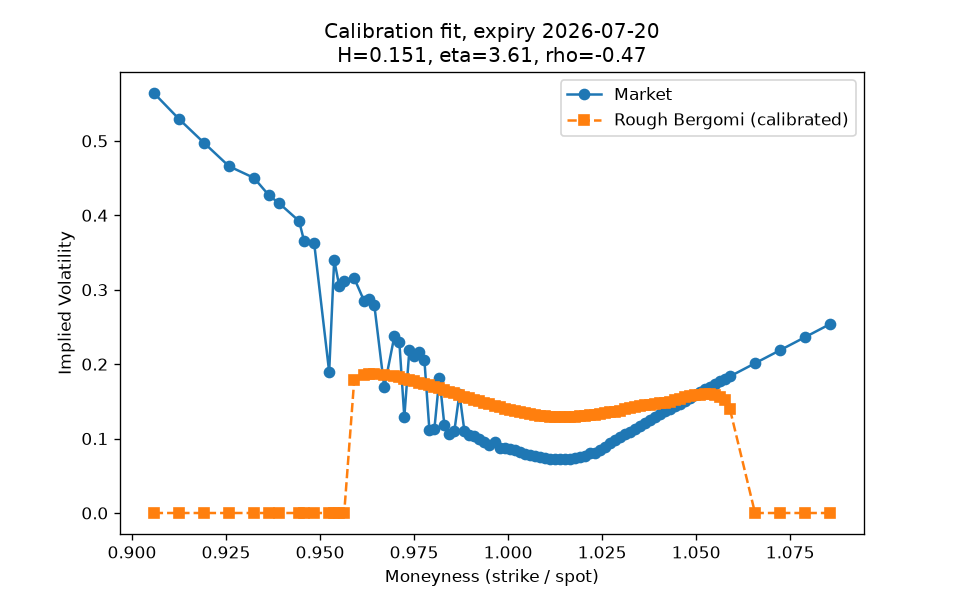
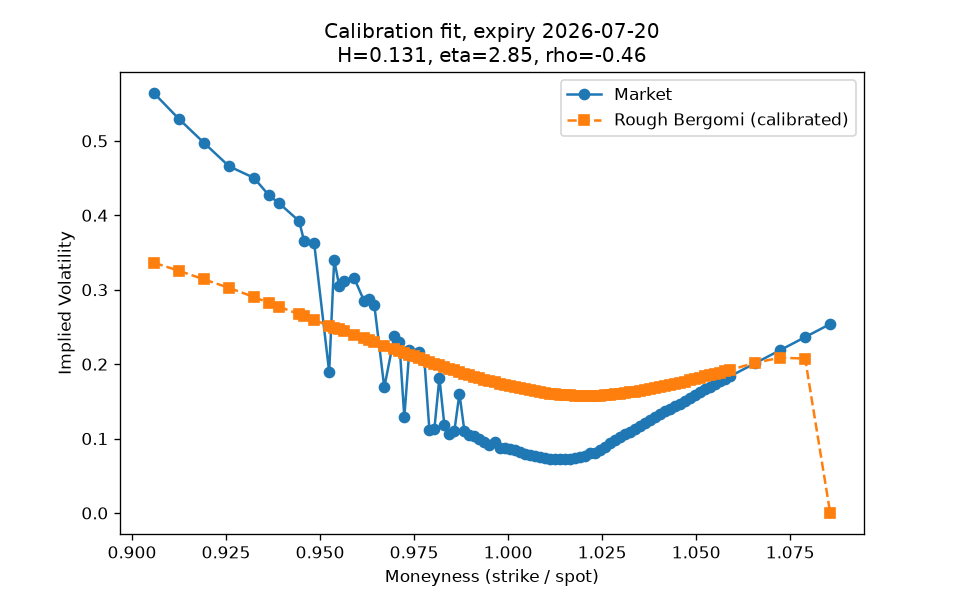
antithetic variates for variance reduction; document MC tail limitation

diff --git a/notebooks/03_calibration_fit.py b/notebooks/03_calibration_fit.py
@@ -1,0 +1,48 @@
+import sys
+sys.path.append("../src")
+import pandas as pd
+import matplotlib.pyplot as plt
+from calibration import calibrate, model_iv_surface
+
+# Excludes the single deepest-OTM quote (moneyness > 1.08): even with antithetic
+# variates, MC pricing can't reliably resolve this far into the tail at reasonable
+# path counts. This is a documented limitation, not a workaround.
+
+df = pd.read_csv("../data/spy_options.csv")
+expiry = df["expiry"].iloc[0]
+slice_df = df[(df["expiry"] == expiry) & (df["type"] == "call")].sort_values("moneyness")
+slice_df = slice_df[(slice_df["moneyness"] > 0.9) & (slice_df["moneyness"] < 1.08)]
+
+fit = calibrate(slice_df)
+print("H:", fit["H"], "eta:", fit["eta"], "rho:", fit["rho"], "xi0:", fit["xi0"])
+
+strikes = slice_df["strike"].values
+T = slice_df["T"].iloc[0]
+spot = slice_df["spot"].iloc[0]
+
+# Bumped to 100k paths -- far OTM/ITM strikes need many more simulated paths
+# to get a non-zero payoff count, or the IV solver's intrinsic-value guard
+# kills them and the smile shows a flat-zero region at the wings.
+model_ivs = model_iv_surface(fit["H"], fit["eta"], fit["rho"], fit["xi0"],
+                              strikes, T, spot, n_paths=100000, seed=99)
+
+# Diagnostic: flag any strike where the IV solver still failed
+n_failed = 0
+for K, iv in zip(strikes, model_ivs):
+    if iv == 0.0:
+        n_failed += 1
+        print(f"WARNING: strike {K} (moneyness {K/spot:.3f}) still returned IV=0")
+if n_failed == 0:
+    print("All strikes returned non-zero IV -- fix worked.")
+else:
+    print(f"{n_failed} strikes still failing -- needs variance reduction, not just more paths.")
+
+plt.figure(figsize=(8, 5))
+plt.plot(slice_df["moneyness"], slice_df["impliedVolatility"], "o-", label="Market")
+plt.plot(strikes / spot, model_ivs, "s--", label="Rough Bergomi (calibrated)")
+plt.xlabel("Moneyness (strike / spot)")
+plt.ylabel("Implied Volatility")
+plt.title(f"Calibration fit, expiry {expiry}\nH={fit['H']:.3f}, eta={fit['eta']:.2f}, rho={fit['rho']:.2f}")
+plt.legend()
+plt.savefig("calibration_fit.png", dpi=120)
+print("Saved calibration_fit.png")

diff --git a/src/rough_bergomi.py b/src/rough_bergomi.py
@@ -1,12 +1,14 @@
 """
-Rough Bergomi model: path simulation via direct discretized Volterra kernel sum.
+Rough Bergomi model: path simulation via direct discretized Volterra kernel sum,
+with antithetic variates for variance reduction at extreme strikes.
 Reference: Bayer, Friz, Gatheral (2016) "Pricing under rough volatility"
 """
 
 import numpy as np
 
 
-def simulate_rough_bergomi(H, eta, rho, xi0, n_steps, n_paths, T=1.0, seed=None):
+def simulate_rough_bergomi(H, eta, rho, xi0, n_steps, n_paths, T=1.0, seed=None,
+                            antithetic=True):
     """
     Simulate rough Bergomi price and variance paths.
 
@@ -17,9 +19,12 @@ def simulate_rough_bergomi(H, eta, rho, xi0, n_steps, n_paths, T=1.0, seed=None)
     rho : float, correlation between price and variance drivers, typically ~-0.7
     xi0 : float, flat forward variance level (constant curve for now)
     n_steps : int, number of time steps
-    n_paths : int, number of Monte Carlo paths
+    n_paths : int, number of Monte Carlo paths (rounded up to even if antithetic=True)
     T : float, time horizon in years
     seed : int, random seed for reproducibility
+    antithetic : bool, if True pairs each draw with its negation, halving the
+        independent draws needed and materially reducing variance at extreme
+        strikes/tails without extra compute cost.
 
     Returns
     -------
@@ -31,17 +36,22 @@ def simulate_rough_bergomi(H, eta, rho, xi0, n_steps, n_paths, T=1.0, seed=None)
     dt = T / n_steps
     t_grid = np.linspace(0, T, n_steps + 1)
 
-    # Correlated Gaussian increments: dW1 drives the variance kernel, dW1_perp is orthogonal
-    dW1 = np.random.normal(0.0, np.sqrt(dt), size=(n_paths, n_steps))
-    dW1_perp = np.random.normal(0.0, np.sqrt(dt), size=(n_paths, n_steps))
+    if antithetic:
+        n_half = (n_paths + 1) // 2
+        base1 = np.random.normal(0.0, np.sqrt(dt), size=(n_half, n_steps))
+        base_perp = np.random.normal(0.0, np.sqrt(dt), size=(n_half, n_steps))
+        dW1 = np.concatenate([base1, -base1], axis=0)[:n_paths]
+        dW1_perp = np.concatenate([base_perp, -base_perp], axis=0)[:n_paths]
+    else:
+        dW1 = np.random.normal(0.0, np.sqrt(dt), size=(n_paths, n_steps))
+        dW1_perp = np.random.normal(0.0, np.sqrt(dt), size=(n_paths, n_steps))
 
     # Volterra process: Y_{t_i} = sqrt(2H) * sum_{j<i} ((t_i - t_j))^(H-0.5) * dW1_j
-    # Direct O(n^2) discretization -- numerically stable, exact kernel, no overflow.
     norm = np.sqrt(2 * H)
     Y = np.zeros((n_paths, n_steps + 1))
     for i in range(1, n_steps + 1):
-        lags = (np.arange(i, 0, -1)) * dt          # (t_i - t_j) for j = 0..i-1, most recent last
-        kernel = lags ** (H - 0.5)                  # always > 0 since lags >= dt
+        lags = (np.arange(i, 0, -1)) * dt
+        kernel = lags ** (H - 0.5)
         Y[:, i] = norm * (dW1[:, :i] @ kernel)
 
     # Variance process